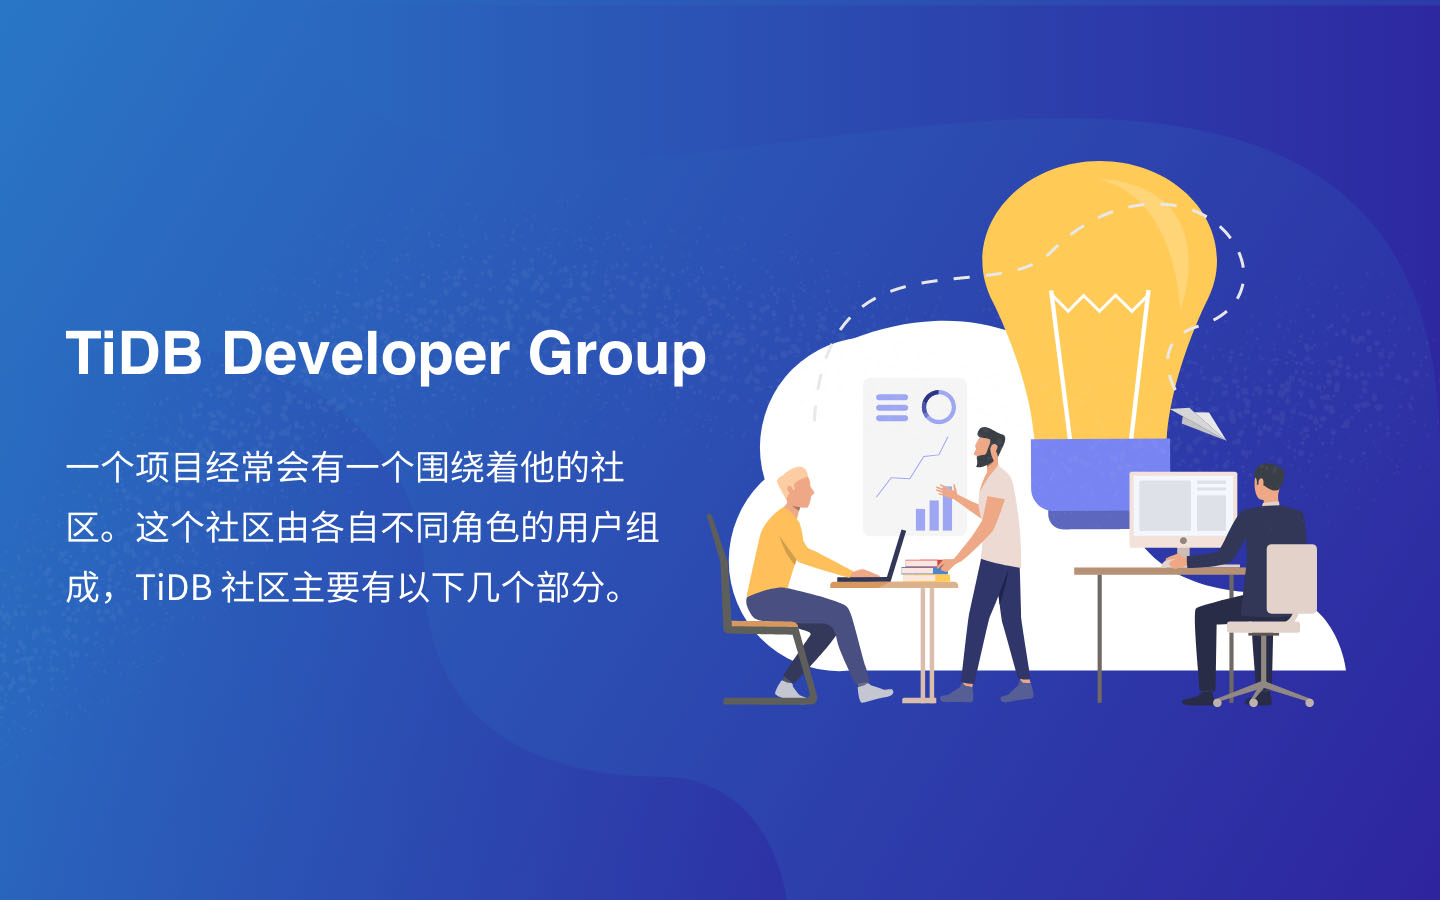
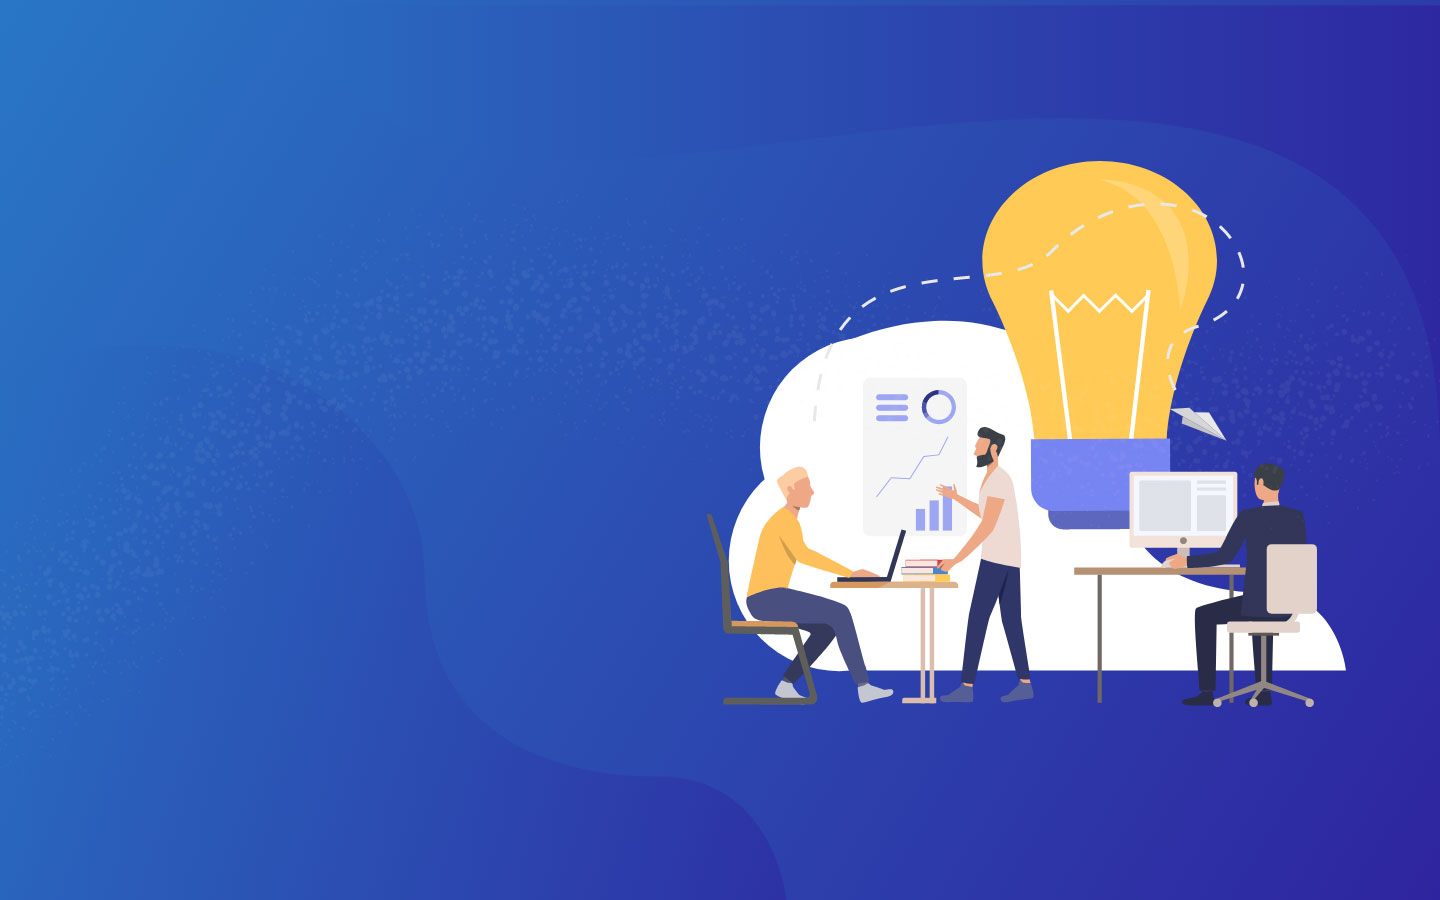
update /community-cn/organization

Changed region(s): [[0.0312, 0.4978, 0.4688, 0.6844], [0.0312, 0.3422, 0.5, 0.4356], [0.0312, 0.56, 0.0625, 0.5911]]

diff --git a/layouts/community-cn/organization.html b/layouts/community-cn/organization.html
@@ -19,7 +19,7 @@
                 <div class="headBtn orgBtn tl">Community Organization</div>
                 <div class="branches">
                   <div class="branch">
-                      <button class="branchBtn pmcBtn orgBtn j-hover j-mobile-hover tl">PMC</button>
+                      <button class="branchBtn pmcBtn orgBtn j-hover j-mobile-hover tl cursor-text">PMC</button>
                       <div class="org-tooltiptext tt-tr">项目管理委员会，为项目核心管理团队，参与 roadmap 制定与社区相关的重大决议。</div>
                   </div>
                   <div class="branch">
@@ -27,25 +27,25 @@
                       <div class="devSubBtns tr">
                         {{- range $idx, $i := .Site.Data.community_organization.architecture.developer_group -}}
                           <div class="btn-tooltip">
-                            <a href="{{ $i.link }}" class="j-hover"><button class="devBtn devSubBtn orgBtn">{{ $i.name }}</button></a>
+                            <a href="{{ $i.link }}" class="j-hover j-devSubBtn-hover"><button class="devBtn devSubBtn orgBtn">{{ $i.name }}</button></a>
                             <div class="org-tooltiptext tt-left">{{ $i.desc }}</div>
                           </div>
                         {{- end -}}
                     </div>
                   </div>
                   <div class="branch">
-                      <button class="branchBtn userBtn orgBtn tr">User Group</button>
+                      <button class="branchBtn userBtn orgBtn tr cursor-text">User Group</button>
                       <div class="devSubBtns tl">
                           {{- range $idx, $i := .Site.Data.community_organization.architecture.user_group -}}
                             <div class="btn-tooltip">
-                              <button class="devBtn userSubBtn orgBtn j-hover">{{ $i.name }}</button>
+                              <button class="devBtn userSubBtn orgBtn j-hover cursor-text">{{ $i.name }}</button>
                               <div class="org-tooltiptext tt-right">{{ $i.desc }}</div>
                             </div>
                           {{- end -}}
                       </div>
                   </div>
                   <div class="branch">
-                      <button class="branchBtn comBtn orgBtn tr j-hover j-mobile-hover">Organization Committee</button>
+                      <button class="branchBtn comBtn orgBtn tr j-hover j-mobile-hover cursor-text">Organization Committee</button>
                       <div class="org-tooltiptext tt-tl">项目组织委员会，负责执行、输出，推广技术内容的组织者们，成员包括各地区用户组组长以及社区活动负责人。</div>
                   </div>
                 </div>
@@ -235,12 +235,12 @@
     </div>
 
     <div class="back-to-community-section">
-        <a href="/community-cn/#activities">
+        <a href="/community-cn/">
             <button class="back-to-community">
-                更多社区活动
+              回到社区主页
             </button>
         </a>
-      </div>
+    </div>
 </div>
 {{- end -}}
 

diff --git a/layouts/_default/baseof.html b/layouts/_default/baseof.html
@@ -1,0 +1,34 @@
+<!DOCTYPE html>
+<!--[if lt IE 7]>
+<html class="no-js lt-ie9 lt-ie8 lt-ie7" lang=""> <![endif]-->
+<!--[if IE 7]>
+<html class="no-js lt-ie9 lt-ie8" lang=""> <![endif]-->
+<!--[if IE 8]>
+<html class="no-js lt-ie9" lang=""> <![endif]-->
+<!--[if gt IE 8]><!-->
+<html lang="en">
+<head>
+<meta charset="utf-8">
+<meta http-equiv="X-UA-Compatible"content="IE=edge">
+<meta name="viewport"content="width=device-width,initial-scale=1,maximum-scale=1,user-scalable=no">
+{{- partial "head/ga" . -}} {{- block "headTpl" . -}}{{- end -}} {{- $data_i18_cn := $.Scratch.Get "data_i18_cn" -}}
+<title>{{ block "title" . }}{{- .Title -}}{{ end }} |&nbsp;{{- if and $data_i18_cn (ne ($.Scratch.Get "nav_active") "docs") -}}PingCAP {{- else -}} {{ $.Scratch.Get "metaTitle" }} {{- end -}}
+</title>
+{{- partial "head/meta-seo" . -}} {{- partial "head/preload-assets" . -}} {{- partial "head/preload-css" (dict "href" "/css/main.css") -}} {{- partial "head/preload-css" (dict "href" "https://download.pingcap.com/style/docsearch.min.css") -}} {{- partial "tracking-code/ga-events-js.html" -}}
+<script type="text/javascript">"/"===location.pathname&&"pingcap.github.io"===location.hostname&&(location.href="/en/")</script>
+<link rel="preload"as="script"href="/js/app.js">
+</head>
+{{- $homepage := $.Scratch.Get "homepage" -}} {{$.Scratch.Set "stable_version" .Site.Params.versions.docs.stable_version }}
+<body {{ if $homepage }}class="homepage"{{ end }}>
+{{- partial "loaders/page-loader.html" -}}
+<div id="page-content"style="display:none">
+{{- $data_i18_cn := $.Scratch.Get "data_i18_cn" -}} {{- if $homepage -}} {{- partial "layout/release-banner" . -}} {{- end -}} {{- if $data_i18_cn -}} {{- partial "layout/header-cn" . -}} {{- partial "layout/mobile-sidebar-cn" . -}} {{- else -}} {{- partial "layout/header" . -}} {{- partial "layout/mobile-sidebar" . -}} {{- end -}} {{- block "main" . -}}{{- end -}} {{- if $data_i18_cn -}} {{- partial "layout/footer-cn" . -}} {{- else -}} {{- partial "layout/footer" . -}} {{- end -}} {{- partial "common/back-to-top.html" -}}
+</div>
+<script type="text/javascript">document.getElementById("page-loader").style.display="none",document.getElementById("page-content").style.display="block"</script>
+<div class="overlay"></div>
+<script src="https://download.pingcap.com/js/jquery.min.js"></script>
+{{- block "footJS" . -}}{{- end -}}
+<script src="https://cdn.jsdelivr.net/algoliasearch/3/algoliasearchLite.min.js"></script>
+<script src="https://cdn.jsdelivr.net/npm/docsearch.js@2/dist/cdn/docsearch.min.js"></script>
+<script type="text/javascript"src="/js/app.js"></script></body>
+</html>

diff --git a/src/less/community/organization.less b/src/less/community/organization.less
@@ -53,14 +53,15 @@
 }
 
 button {
-  cursor: pointer;
   line-height: 1.7;
-  // z-index: 1;
+  cursor: pointer;
+}
+
+.cursor-text {
+  cursor: default !important;
 }
 
 button.branchBtn.userBtn.orgBtn.tr {
-  cursor: text;
-
   &:hover {
     background-color: @userOrange;
   }
@@ -217,18 +218,18 @@ button.branchBtn.userBtn.orgBtn.tr {
 
 .devSubBtn {
   border: 1px solid @developerBlue;
+}
 
-  &:hover {
-    background-color: @devBtnColor;
-  }
+.devSubBtn-hover {
+  background-color: @devBtnColor;
 }
 
 .userSubBtn {
   border: 1px solid @userOrange;
+}
 
-  &:hover {
-    background-color: @userOrange;
-  }
+.userSubBtn-hover {
+  background-color: @userOrange;
 }
 
 .userBtn {
@@ -400,6 +401,8 @@ button.branchBtn.userBtn.orgBtn.tr {
   .contributor-info {
     background-color: #E6EAF2;
     width: 45%;
+    height: 45px;
+    position: relative;
     font-size: 16px;
     color: @developerBlue;
     transition: box-shadow 0.5s ease;
@@ -409,12 +412,17 @@ button.branchBtn.userBtn.orgBtn.tr {
     }
 
     .name {
-      padding: 10px 10px 10px 40px;
+      position: absolute;
+      top: 50%;
+      transform: translateY(-50%);
+      left: 20%;
+      // padding: 10px 10px 10px 40px;
       width: 40%;
     }
 
     img {
       width: 25px;
+      margin-left: 50%;
     }
 
     .githubID {
@@ -557,6 +565,7 @@ button.branchBtn.userBtn.orgBtn.tr {
       bottom: auto;
       right: auto;
       left: 50%;
+      min-width: 300px;
       font-size: 22px;
       transform: translate(-50%);
       top: 3rem;
@@ -564,7 +573,7 @@ button.branchBtn.userBtn.orgBtn.tr {
   }
 
   .line-divider {
-    margin: 13rem auto 0;
+    margin: 12rem auto 0;
   }
 
   .branches {
@@ -685,6 +694,16 @@ button.branchBtn.userBtn.orgBtn.tr {
   .user-group-members {
     margin: 0 1rem 5rem;
 
+    .contributor-info {
+      .name {
+        left: 15%;
+      }
+
+      img {
+        margin-left: 40%;
+      }
+    }
+
     .members {
       margin: 10px 10px 10px 20px;
     }
@@ -740,6 +759,12 @@ button.branchBtn.userBtn.orgBtn.tr {
   }
 }
 
+@media (max-width: 600px) {
+  .organization__banner {
+    padding-top: 150%;
+  }
+}
+
 @media (max-width: 414px) {
   .organization__banner {
     padding-top: 160%;
@@ -756,7 +781,7 @@ button.branchBtn.userBtn.orgBtn.tr {
   }
 }
 
-@media (max-width: 375px) {
+@media (max-width: 405px) {
   .developer-group-members,
   .user-group-members {
     .member .member-info {
@@ -793,7 +818,7 @@ button.branchBtn.userBtn.orgBtn.tr {
   }
 }
 
-@media (max-width: 320px) {
+@media (max-width: 369px) {
   .organization__banner {
     padding-top: 200%;
   }

diff --git a/src/less/community/developer-group.less b/src/less/community/developer-group.less
@@ -5,8 +5,34 @@
   background: url('/images/community/banners/developer-group-banner-pc.jpg') no-repeat;
 }
 
+.developer-banner-container {
+  position: absolute;
+  width: 100%;
+  height: 100%;
+  top: 0;
+
+  .content {
+    position: absolute;
+    top: 50%;
+    margin-top: -7rem;
+    color: white;
+    padding-left: 4rem;
+
+    h1 {
+      color: white;
+      font-size: 2.8rem;
+    }
+
+    p {
+      font-size: 1rem;
+      width: 50%;
+      padding-top: 2rem;
+    }
+  }
+}
+
 .role-card {
-  margin: 2rem 5rem;
+  margin: 5rem;
   background-color: #F5F6F8;
 
   .header {
@@ -101,10 +127,45 @@
   }
 }
 
+@media (max-width: 1024px) {
+  .developer-banner-container {
+    .content {
+      padding-left: 2rem;
+      margin-top: -6rem;
+
+      h1 {
+        color: white;
+        font-size: 2rem;
+      }
+
+      p {
+        font-size: 0.8rem;
+        padding-top: 1rem;
+      }
+    }
+  }
+}
+
 @media (max-width: 768px) {
   .developer-banner {
     padding-top: 62%;
     background: url('/images/community/banners/developer-group-banner-mobile.jpg') no-repeat;
+  }
+
+  .developer-banner-container {
+    .content {
+      padding-left: 1rem;
+
+      h1 {
+        color: white;
+        font-size: 1rem;
+      }
+
+      p {
+        font-size: 0.8rem;
+        padding-top: 0.8rem;
+      }
+    }
   }
 
   .role-card {

diff --git a/layouts/community-cn/developer-group.html b/layouts/community-cn/developer-group.html
@@ -12,7 +12,14 @@
 
 {{- define "main" -}}
 <div class="developer-group">
-    <div class="banner__section developer-banner"></div>
+    <div class="banner__section developer-banner">
+        <div class="developer-banner-container">
+            <div class="content">
+                <h1>TiDB Developer Group</h1>
+                <p>TiDB Developer Group （TiDB 社区开发者组织）作为社区发展的基石，由以下角色构成：Maintainer, Committer, Reviewer, Active contributor, Contributor。每一个角色在社区中都承担相应的职责，他们是推动 TiDB 健壮发展的重要成员。</p>
+            </div>
+        </div>
+    </div>
     <div class="container">
         {{- partial "community-cn/developer-card.html" (dict "item" .Site.Data.community_organization.maintainer) -}}
         {{- partial "community-cn/developer-card.html" (dict "item" .Site.Data.community_organization.committer) -}}
@@ -59,9 +66,9 @@
     </div>
 
     <div class="back-to-community-section">
-        <a href="/community-cn/#activities">
+        <a href="/community-cn/">
             <button class="back-to-community">
-                更多社区活动
+              回到社区主页
             </button>
         </a>
     </div>

diff --git a/src/js/community.js b/src/js/community.js
@@ -288,15 +288,23 @@ $(document).ready(function() {
 
   if(window.matchMedia('(min-width: 1024px)').matches) {
     $('.j-hover').hover(function(){
-      $(this).addClass('branchBtn-hover')
+      if($(this).hasClass('userSubBtn')) {
+        $(this).addClass('userSubBtn-hover')
+      } else {
+        $(this).addClass('branchBtn-hover')
+        if($(this).hasClass('j-devSubBtn-hover')) {
+          $(this).children().addClass('devSubBtn-hover')
+        }
+      }
       $(this).siblings().addClass('org-tooltiptext-hover')
     }, function(){
+      $('.orgBtn').removeClass('devSubBtn-hover')
+      $('.orgBtn').removeClass('userSubBtn-hover')
       $(this).removeClass('branchBtn-hover')
       $(this).siblings().removeClass('org-tooltiptext-hover')
     })
   } else {
     $('.j-mobile-hover').click(function() {
-      
       if($(this).hasClass('comBtn')) {
         $('.pmcBtn').removeClass('pmcBtn-click')
         $(this).toggleClass('comBtn-click')
